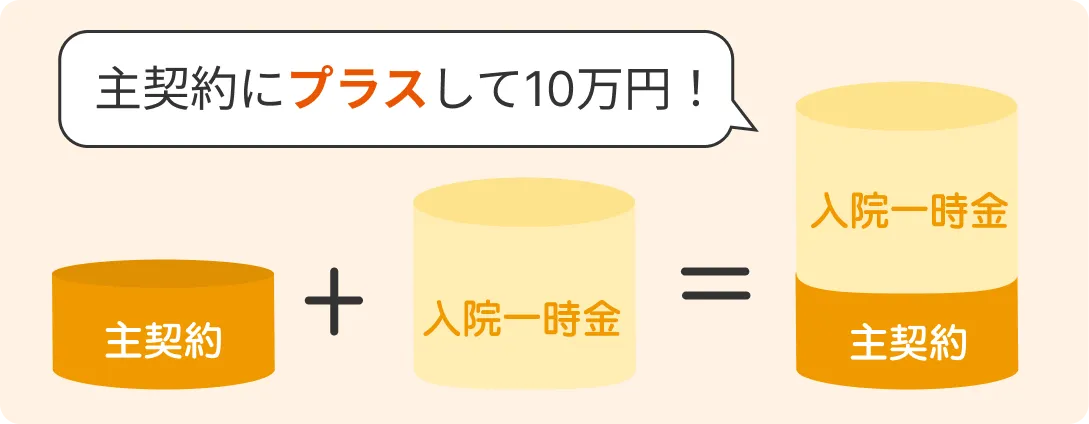
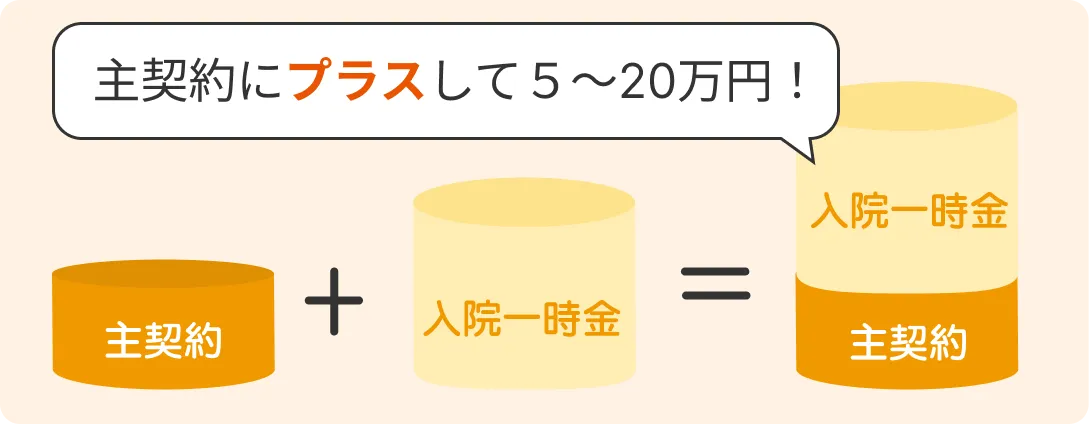
修正

Changed region(s): [[0.0312, 0.0307, 0.7805, 0.3986]]

diff --git a/src/simulation/index.html b/src/simulation/index.html
@@ -138,7 +138,7 @@
                   <dd class="l-result__value">5千円</dd>
                 </div>
                 <div class="l-result__item">
-                  <dt class="l-result__label">がん診断一時金</dt>
+                  <dt class="l-result__label">がん診断給付金</dt>
                   <dd id="cancerAmountContainer" class="l-simulation__select-wrapper l-simulation__select-wrapper--result">
                     <select id="cancerAmountSelect" class="l-simulation__select l-simulation__select--result">
                       <option value="50" selected>50万円</option>
@@ -424,7 +424,7 @@
                         <use xlink:href="#hospitalizationBenefit"></use>
                       </svg>
                     </span>
-                    <h4 class="l-modal__title f-mplus">入院給付金</h4>
+                    <h4 class="l-modal__title l-modal__title--multiple f-mplus"><span class="l-modal__title-sub"">主契約</span>入院給付金</h4>
                   </div>
                 </div>
                 <div class="l-modal__body">
@@ -442,7 +442,11 @@
                     </p>
                     <div class="l-modal__point-illustration"><img src="../images/hospitalization-benefit.webp" alt="熱中症で搬送！点滴だけで当日退院。簡単な手術でその日のうちに帰宅" width="1092" height="436" /></div>
                   </div>
-                  <p class="l-modal__notes">注1：入院給付金の支払対象となる入院を2回以上し、各入院の原因となった障害・疾病が同一か医学上重要な関係がある場合は1回の入院とみなします。ただし、退院の翌日から180日経過後に開始した入院は新たな入院とみなし給付金をお支払いします。</p>
+                  <p class="l-modal__notes">
+                    注1：入院給付金(がん入院給付金を含む､以下同じ)のお支払対象となる入院を2回以上し､それぞれの入院の原因となった傷害または疾病(がん入院給付金の場合は原因となったがん)が同一か医学上密接な関係がある場合は､1回の入院とみなし､入院給付金･入院一時金をお支払いします｡ただし､退院日の翌日から180日を超えて開始した入院は新たな入院とみなし､入院給付金･入院一時金をお支払いします｡
+                    <br>
+                    ※日帰り入院とは､医療法に定める患者を入院させるための施設を有する病院または診療所での入院を対象とし､入院日と退院日が同一の日であり､かつ､入院基本料のお⽀払いがある場合などをいいます｡
+                  </p>
                 </div>
               </div>
             </div>
@@ -461,10 +465,9 @@
                 </div>
                 <div class="l-modal__body">
                   <p class="l-modal__description">
-                    入院給付金が支払われる入院を開始した際に、まとまった一時金がお受け取りいただけます。
+                    主契約の入院給付金が支払われる入院を開始した際に、まとまった一時金をお受け取りいただけます。
                     <br />
-                    1回の入院
-                    <sup class="l-modal__description-note">注1</sup>につき1回、通算30回限度
+                    1回の入院<sup class="l-modal__description-note">注1</sup>につき1回、通算30回限度
                   </p>
                   <div class="l-modal__point">
                     <p class="l-modal__point-image"><img src="../images/point.webp" alt="Point" width="126px" height="61" /></p>
@@ -473,9 +476,9 @@
                       <br />
                       保障を手厚く。
                     </p>
-                    <div class="l-modal__point-illustration"><img src="../images/one-time-hospitalization.webp" alt="主契約にプラスして10万円！" width="1089" height="424" /></div>
+                    <div class="l-modal__point-illustration"><img src="../images/one-time-hospitalization.webp" alt="主契約にプラスして5~20万円!" width="1089" height="424" /></div>
                   </div>
-                  <p class="l-modal__notes">注1：入院給付金の支払対象となる入院を2回以上し、各入院の原因となった障害・疾病が同一か医学上重要な関係がある場合は1回の入院とみなします。ただし、退院の翌日から180日経過後に開始した入院は新たな入院とみなし給付金をお支払いします。</p>
+                  <p class="l-modal__notes">注1：入院給付金(がん入院給付金を含む､以下同じ)のお支払対象となる入院を2回以上し､それぞれの入院の原因となった傷害または疾病(がん入院給付金の場合は原因となったがん)が同一か医学上密接な関係がある場合は､1回の入院とみなし､入院給付金･入院一時金をお支払いします｡ただし､退院日の翌日から180日を超えて開始した入院は新たな入院とみなし､入院給付金･入院一時金をお支払いします｡</p>
                 </div>
               </div>
             </div>
@@ -494,9 +497,9 @@
                 </div>
                 <div class="l-modal__body">
                   <p class="l-modal__description">
-                    主契約の入院給付金が支払われる入院をし、に、その入院の原因となった傷病の治療を目的とする通院を開始したときにお受け取りいただけます。
+                    主契約の入院給付金が支払われる入院をし、その入院の原因となった傷病の治療を目的とする通院を開始したときにお受け取りいただけます。
                     <br />
-                    1回の通院期間注2につき1回、通算30回限度<sup class="l-modal__description-note">注3注4</sup>
+                    1回の通院期間<sup class="l-modal__description-note">注2</sup>につき1回、通算30回限度<sup class="l-modal__description-note">注3注4</sup>
                   </p>
                   <div class="l-modal__point">
                     <p class="l-modal__point-image"><img src="../images/point.webp" alt="Point" width="126px" height="61" /></p>
@@ -536,7 +539,7 @@
                 </div>
                 <div class="l-modal__body">
                   <p class="l-modal__description">
-                    先進医療注5による療養を受けたときにお受け取りいただけます。(歯科、口腔外科、矯正歯科、小児歯科は除く)
+                    先進医療<sup class="l-modal__description-note">注5</sup>による療養を受けたときにお受け取りいただけます。(歯科、口腔外科、矯正歯科、小児歯科は除く)
                     <br />
                     技術料と同額を保障、1回の療養につき500万円限度で、通算は2000万円限度
                   </p>
@@ -547,9 +550,9 @@
                       <br />
                       治療の幅を広げられます。
                     </p>
-                    <div class="l-modal__point-illustration"><img src="../images/advance.webp" alt="重粒子線治療で技術料300万円かかった場合、先進医療給付金から 300万円受け取れます！" width="1056" height="376" /></div>
+                    <div class="l-modal__point-illustration"><img src="../images/advance.webp" alt="重粒子線治療で技術料300万円かかった場合、先進医療給付金300万円受け取れます！" width="1056" height="376" /></div>
                   </div>
-                  <p class="l-modal__notes">注5：お支払い対象となる先進医療は、療養を受けた時点において、厚生労働大臣が定める先進医療として行なわれるもの(厚生労働大臣が定める施設基準に適合する病院・診療所にて行われるものに限る)</p>
+                  <p class="l-modal__notes">注5：お支払い対象となる先進医療は、療養を受けた時点において、厚生労働大臣が定める先進医療として行なわれるもの(厚生労働大臣が定める施設基準に適合する病院・診療所にて行われるものに限る)をいいます｡<br>重粒子線治療は､適応症によって公的医療保険制度の対象となるものがあります｡</p>
                 </div>
               </div>
             </div>
@@ -569,9 +572,7 @@
                 <div class="l-modal__body">
                   <div class="l-modal__description">
                     <h5 class="l-modal__body-title">がん入院給付金</h5>
-                    がんで1日以上入院したときにお受け取りいただけます。
-                    <br />
-                    1回の入院注1につき60日、通算1,000日限度
+                    がんで1日以上入院したときにお受け取りいただけます。1回の入院<sup class="l-modal__description-note">注1</sup>につき60日、通算1,000日限度
                   </div>
                   <div class="l-modal__description">
                     <h5 class="l-modal__body-title">がん診断給付金</h5>
@@ -588,7 +589,7 @@
                     </p>
                   </div>
                   <p class="l-modal__notes">
-                    注1：入院給付金の支払対象となる入院を2回以上し、各入院の原因となった障害・疾病が同一か医学上重要な関係がある場合は1回の入院とみなします。ただし、退院の翌日から180日経過後に開始した入院は新たな入院とみなし給付金をお支払いします。
+                    注1：入院給付金(がん入院給付金を含む､以下同じ)のお支払対象となる入院を2回以上し､それぞれの入院の原因となった傷害または疾病(がん入院給付金の場合は原因となったがん)が同一か医学上密接な関係がある場合は､1回の入院とみなし､入院給付金･入院一時金をお支払いします｡ただし､退院日の翌日から180日を超えて開始した入院は新たな入院とみなし､入院給付金･入院一時金をお支払いします｡
                     <br />
                     注6：がん診断給付金は、最終のがん診断給付金のお支払事由に該当した日から、その日を含めて1年以内に新たながんの診断確定を受けた場合にはお支払いしません。
                   </p>
@@ -607,10 +608,10 @@
           </div>
           <div class="c-footer__contact">
             <a href="tel:0120-844-635" class="c-footer__tel">0120-844-635</a>
-            <p class="c-footer__hours">営業時間 10:00〜19:30</p>
+            <p class="c-footer__hours">営業時間 10:30〜21:00</p>
             <p class="c-footer__closed">毎週水曜・年末年始を除く</p>
           </div>
-          <a href="https://ucscard.clicklink.jp/wp-content/uploads/2025/06/お客様情報に関するお取り扱いについて.pdf" target="_blank" rel="noopener" class="c-footer__privacy">お客様情報の取扱いについて</a>
+          <a href="https://ucscard.clicklink.jp/wp-content/uploads/2025/06/お客様情報に関するお取り扱いについて.pdf" target="_blank" rel="noopener" class="c-footer__privacy">お客様情報のお取り扱いについて</a>
           <div class="c-footer__details">
             <p class="c-footer__text c-footer__text--large">
               差出人／保険契約者&emsp;株式会社UCS

diff --git a/src/data/index.html b/src/data/index.html
@@ -114,7 +114,7 @@
             <div class="l-data-block__message">
               <div class="l-data-block__avatar"><img src="../images/avatar.webp" alt="女性のイラスト" /></div>
               <div class="l-data-block__bubble">
-                <img src="../images/hospitalization.webp" alt="おすすめは入院一時金！" />
+                <img src="../images/hospitalization.webp" alt="入院一時金で安心！" />
               </div>
             </div>
             <h4 class="l-data-block__heading l-data-block__heading--large">
@@ -144,18 +144,18 @@
                 <figure class="l-data-block__figure"><img src="../images/commuting-graph.webp" width="1022" height="995" alt="通院した83.3%、その他16.7%" /></figure>
               </div>
             </div>
-            <p class="l-data-block__source">厚生労働省｢令和2年患者調査｣より。割合を求めた分母となる総数から｢他の病院・診療所に入院」の数を除いて朝日生命で試算</p>
+            <p class="l-data-block__source">厚生労働省｢令和5年 患者調査｣&emsp;割合を求めた分母となる総数から｢他の病院・診療所に入院」の数を除いて朝日生命で試算</p>
           </section>
 
           <section class="l-data-block js-fadeup">
             <div class="l-data-block__message l-data-block__message--reverse">
               <div class="l-data-block__avatar"><img src="../images/avatar-right.webp" alt="女性のイラスト" /></div>
               <div class="l-data-block__bubble">
-                <img src="../images/outpatient-care.webp" alt="おすすめは通院一時金！" />
+                <img src="../images/outpatient-care.webp" alt="退院後の通院保障！" />
               </div>
             </div>
             <h4 class="l-data-block__heading l-data-block__heading--large">
-              1回でも<span class="l-data-block__heading-accent"><b class="l-data-block__emphasis l-data-block__emphasis--large">3</b>万円</span>
+              1回以上で<span class="l-data-block__heading-accent"><b class="l-data-block__emphasis l-data-block__emphasis--large">3</b>万円</span>
             </h4>
             <div class="l-data-block__content">
               <p class="l-data-block__figure-text">使い方は自由！</p>
@@ -183,9 +183,13 @@
               </h4>
             </div>
             <div class="l-data-block__content">
-              <figure class="l-data-block__figure"><img src="../images/gender-ratio.webp" alt="" width="892" height="810" /></figure>
+              <div class="l-data-block__title l-data-block__title--area">
+                <p class="l-data-block__title-main">年齢階級別罹患リスク</p>
+                <small class="l-data-block__title-sub">（2020年罹患・死亡データに基づく）全がん</small>
+              </div>
+              <figure class="l-data-block__figure"><img src="../images/gender-ratio.webp" alt="男女別の体型割合。男性は痩せ型1.2%、やや痩せ型2.7%、標準7.2%、やや肥満19.8%、肥満62.1%。女性は痩せ型2.2%、やや痩せ型6.0%、標準11.8%、やや肥満20.1%、肥満48.9%。" width="892" height="810" /></figure>
             </div>
-            <p class="l-data-block__source">公益財団法人がん研究振興財団「がんの統計2023」累積がん罹患・死亡リスク（2019年の罹患・死亡データに基づく）全がん</p>
+            <p class="l-data-block__source">公益財団法人がん研究振興財団「がんの統計2023」累積がん罹患・死亡リスク（2020年の罹患・死亡データに基づく）全がん</p>
           </section>
 
           <section class="l-data-block js-fadeup">
@@ -203,15 +207,15 @@
             <div class="l-point-block__item">
               <div class="l-point-block__content">
                 <p class="l-point-block__image"><img src="../images/point-white.webp" alt="Point" width="126px" height="61" /></p>
-                <h5 class="l-point-block__heading f-mplus">加入前だから簡単!</h5>
-                <p class="l-point-block__text">後付けは告知と書類の記入が必要です。健康状態によってはつけれない可能性もあります。</p>
+                <h5 class="l-point-block__heading f-mplus">何度でもお受け取り</h5>
+                <p class="l-point-block__text">がん診断給付金は1年に1回を限度に何度でもお受け取りいただけます。再発・転移にも備えられます。</p>
               </div>
             </div>
             <div class="l-point-block__item">
               <div class="l-point-block__content">
                 <p class="l-point-block__image"><img src="../images/point-white.webp" alt="Point" width="126px" height="61" /></p>
                 <h5 class="l-point-block__heading f-mplus">支払いは3ヶ月後</h5>
-                <p class="l-point-block__text">保障のスタートも保険料の支払いも3ヶ月後からなので、今すぐお客様のご負担が増えることはありません。</p>
+                <p class="l-point-block__text">がんの保障は3ヶ月間の不担保期間があります。保障のスタートも保険料の支払いも3ヶ月後からです。</p>
               </div>
             </div>
           </div>
@@ -257,10 +261,10 @@
           </div>
           <div class="c-footer__contact">
             <a href="tel:0120-844-635" class="c-footer__tel">0120-844-635</a>
-            <p class="c-footer__hours">営業時間 10:00〜19:30</p>
+            <p class="c-footer__hours">営業時間 10:30〜21:00</p>
             <p class="c-footer__closed">毎週水曜・年末年始を除く</p>
           </div>
-          <a href="https://ucscard.clicklink.jp/wp-content/uploads/2025/06/お客様情報に関するお取り扱いについて.pdf" target="_blank" rel="noopener" class="c-footer__privacy">お客様情報の取扱いについて</a>
+          <a href="https://ucscard.clicklink.jp/wp-content/uploads/2025/06/お客様情報に関するお取り扱いについて.pdf" target="_blank" rel="noopener" class="c-footer__privacy">お客様情報のお取り扱いについて</a>
           <div class="c-footer__details">
             <p class="c-footer__text c-footer__text--large">
               差出人／保険契約者&emsp;株式会社UCS

diff --git a/src/as/index.html b/src/as/index.html
@@ -93,7 +93,7 @@
             <div class="c-contact__bubble-text f-mplus">
               <span class="c-contact__bubble-emphasis">どんな<b class="c-contact__bubble-bold">病気･ケガ</b></span>でも
               <br />
-              治療が目的なら<span class="c-contact__bubble-emphasis c-contact__bubble-bold">保障対象！</span>
+              治療目的の入院なら<span class="c-contact__bubble-emphasis c-contact__bubble-bold">保障対象！</span>
             </div>
           </div>
         </div>
@@ -112,31 +112,31 @@
             <div class="l-merit__image">
               <img src="../images/merit01.webp" width="520" height="410" alt="電話をしている女性のイラスト" />
             </div>
-            <p class="l-merit__description">煩わしい書類のやり取りなどなく、お電話だけでお申し込みいただけます。</p>
+            <p class="l-merit__description">わずらわしい書類のやり取りなどなく、お電話だけでお申し込みいただけます。</p>
           </li>
           <li class="l-merit__item js-fadeup">
-            <div class="l-merit__header">
+            <div class="l-merit__header l-merit__header--narrow">
               <p class="l-merit__number">02</p>
               <h4 class="l-merit__title f-mplus">
-                申込に医師の<span class="l-merit__title-emphasis">審査不要</span>
+                お申し込みに医師の<span class="l-merit__title-emphasis">診査不要</span>
               </h4>
             </div>
             <div class="l-merit__image">
               <img src="../images/merit02.webp" width="520" height="410" alt="お医者さんのイラスト" />
             </div>
-            <p class="l-merit__description">医師の審査や健康診断を受る必要はないので、その場で申し込み可能です。</p>
+            <p class="l-merit__description">医師の診査や健康診断は必要なく、簡単な告知のみでお申し込み可能です。</p>
           </li>
           <li class="l-merit__item js-fadeup">
             <div class="l-merit__header">
               <p class="l-merit__number">03</p>
               <h4 class="l-merit__title f-mplus">
-                <span class="l-merit__title-emphasis">カード情報</span>必要なし
+                お支払いは<span class="l-merit__title-emphasis">UCSカードで</span>
               </h4>
             </div>
             <div class="l-merit__image">
               <img src="../images/merit03.webp" width="520" height="414" alt="財布を持った主婦のイラスト" />
             </div>
-            <p class="l-merit__description">お支払いはお手持ちのUCSカードでOK。ポイントも対象です！</p>
+            <p class="l-merit__description">保険料のお支払いはお手持ちのUCSカードなので情報登録は不要です。</p>
           </li>
           <li class="l-merit__item js-fadeup">
             <div class="l-merit__header">
@@ -148,7 +148,7 @@
             <div class="l-merit__image">
               <img src="../images/merit04.webp" width="520" height="410" alt="男性がスマートフォンを見ているイラスト" />
             </div>
-            <p class="l-merit__description">プランの変更は電話一本でカンタンにいただけます！</p>
+            <p class="l-merit__description">プランの変更は電話一本でカンタンにできます！</p>
           </li>
         </ol>
       </section>
@@ -168,7 +168,7 @@
                   d="M4.62741 2.5667C0.917242 5.00471 0.188391 12.6255 1.58914 18.8367C2.68005 23.6736 4.99938 30.162 8.91035 36.2717C12.5895 42.0195 17.7225 47.1733 21.6364 50.1552C26.6624 53.9841 33.8272 56.4178 37.5374 53.9798C39.4135 52.747 42.2007 49.3788 42.3279 48.7744C42.3279 48.7744 40.6935 46.221 40.3348 45.6607L34.8537 37.0978C34.4464 36.4615 31.8921 37.0431 30.5945 37.7878C28.8441 38.7927 27.2321 41.4888 27.2321 41.4888C26.032 42.1914 25.0267 41.4914 22.9263 40.512C20.3449 39.3086 17.4426 35.5695 15.1326 32.1829C13.0229 28.6649 10.8369 24.4549 10.8053 21.576C10.7793 19.2336 10.5584 18.0182 11.6811 17.1943C11.6811 17.1943 14.7682 16.8026 16.3875 15.5932C17.5878 14.6965 19.1536 12.5707 18.7463 11.9343L13.2652 3.37153C12.9065 2.81118 11.2721 0.257767 11.2721 0.257767C10.6755 0.129006 6.50348 1.33391 4.62741 2.5667Z"
                   fill="white" />
               </svg>
-              <p class="c-contact__button-text">詳しく聞いてみる</p>
+              <p class="c-contact__button-text">今すぐ問い合わせ</p>
             </a>
             <a href="sms:0005132044" class="c-contact__button c-contact__button--outline">
               <p class="c-contact__button-text c-contact__button-text--sub">UCSからのご連絡をご希望の方</p>
@@ -192,10 +192,10 @@
           </div>
           <div class="c-footer__contact">
             <a href="tel:0120-844-635" class="c-footer__tel">0120-844-635</a>
-            <p class="c-footer__hours">営業時間 10:00〜19:30</p>
+            <p class="c-footer__hours">営業時間 10:30〜21:00</p>
             <p class="c-footer__closed">毎週水曜・年末年始を除く</p>
           </div>
-          <a href="https://ucscard.clicklink.jp/wp-content/uploads/2025/06/お客様情報に関するお取り扱いについて.pdf" target="_blank" rel="noopener" class="c-footer__privacy">お客様情報の取扱いについて</a>
+          <a href="https://ucscard.clicklink.jp/wp-content/uploads/2025/06/お客様情報に関するお取り扱いについて.pdf" target="_blank" rel="noopener" class="c-footer__privacy">お客様情報のお取り扱いについて</a>
           <div class="c-footer__details">
             <p class="c-footer__text c-footer__text--large">
               差出人／保険契約者&emsp;株式会社UCS

diff --git a/src/css/layout-data.css b/src/css/layout-data.css
@@ -80,6 +80,25 @@
   background: var(--black-square) no-repeat center / contain;
 }
 
+.l-data-block__title--area {
+  grid-template-areas: 
+  'icon title'
+  '. text';
+}
+
+.l-data-block__title-main {
+  grid-area: title;
+}
+
+.l-data-block__title--area::before {
+  grid-area: icon;
+}
+
+.l-data-block__title-sub {
+  grid-area: text;
+  font-weight: var(--font-medium);
+}
+
 .l-data-block__text {
   position: absolute;
   inset-block-start: calc(-1 * 0em);

diff --git a/src/css/layout-simulation.css b/src/css/layout-simulation.css
@@ -479,6 +479,16 @@
   background-color: var(--color-orangescale-300);
 }
 
+.l-modal__title--multiple {
+  display: grid;
+  justify-items: center;
+}
+
+.l-modal__title-sub {
+  font-size: calc(11 * var(--rem-ratio));
+  line-height: var(--leading-initial);
+}
+
 .l-modal__content {
   display: grid;
   row-gap: 16px;

diff --git a/src/css/layout-as.css b/src/css/layout-as.css
@@ -144,6 +144,10 @@
   grid-auto-columns: 20% auto;
 }
 
+.l-merit__header--narrow {
+  grid-auto-columns: 10% auto;
+}
+
 .l-merit__image {
   inline-size: 40%;
   margin-inline: auto;
